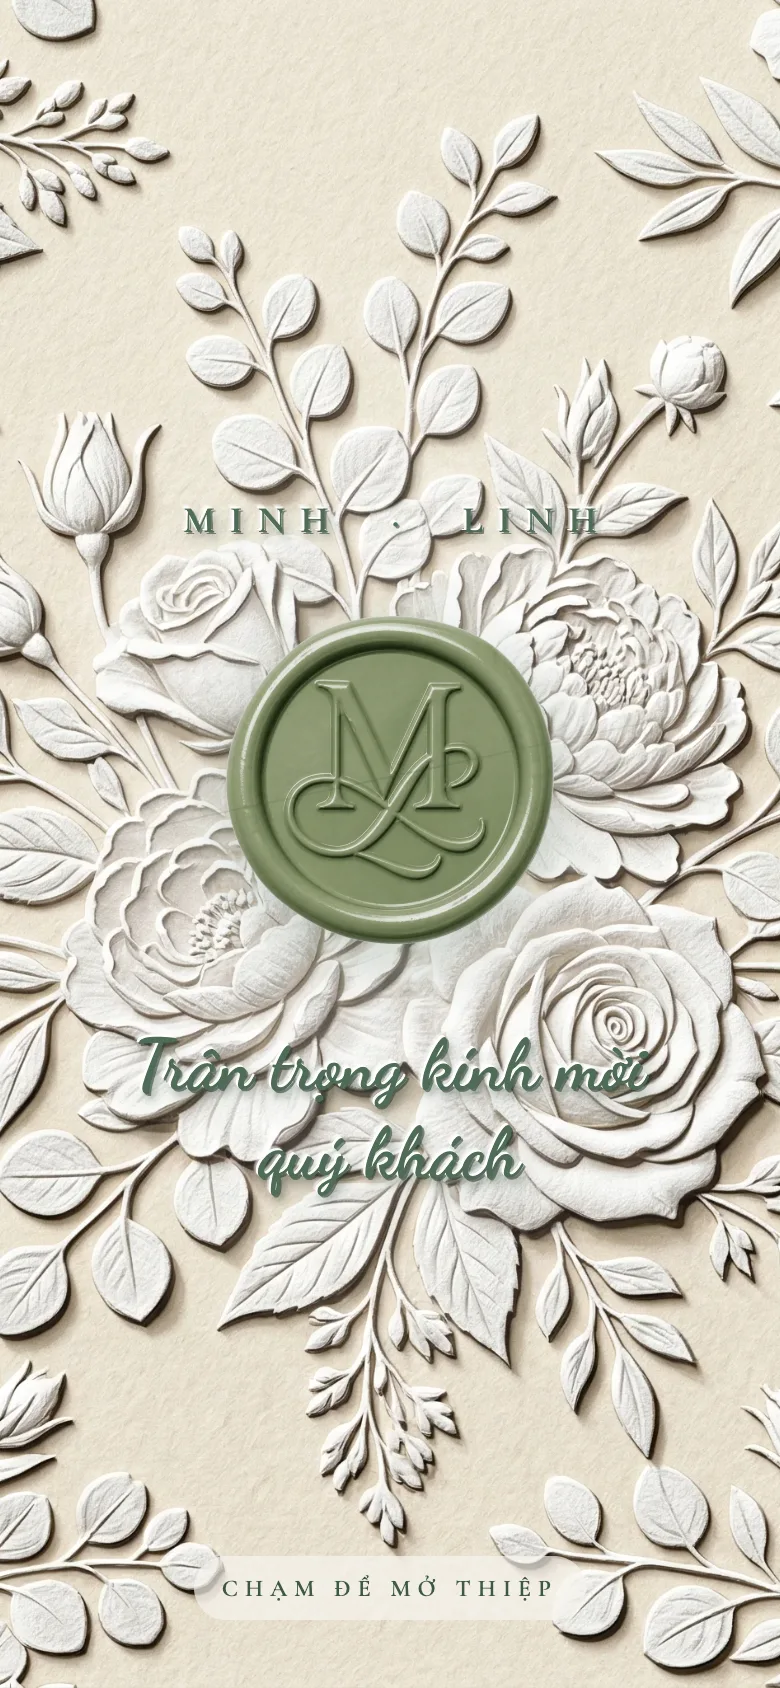
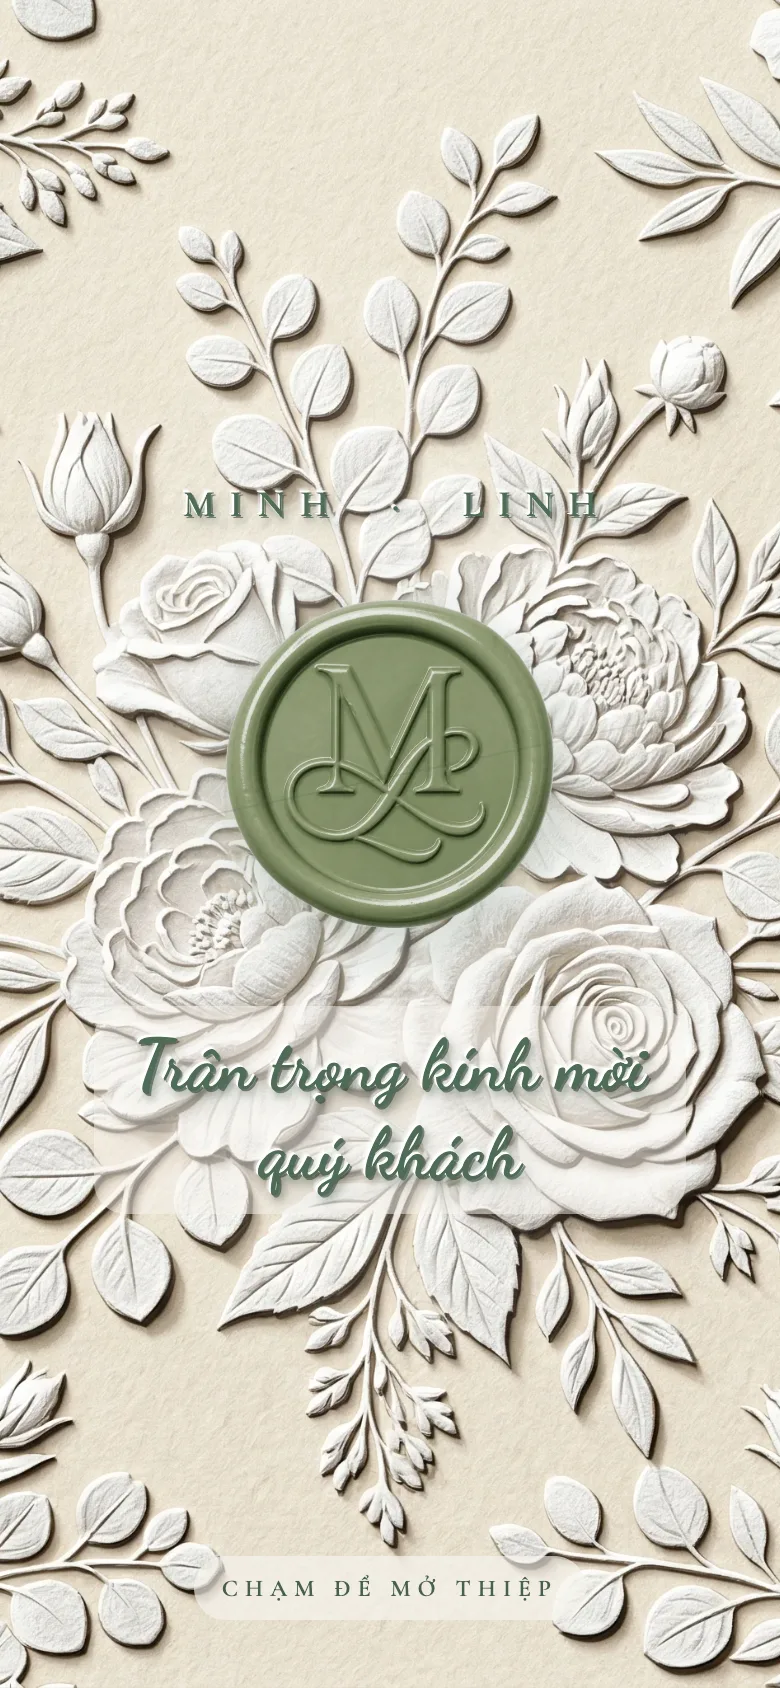
gen_262: thêm nền kem mờ 50% sau chữ mời dập nổi

diff --git a/products/Invitation/Wedding/gen_262_emboss-paper-sage/index.html b/products/Invitation/Wedding/gen_262_emboss-paper-sage/index.html
@@ -123,6 +123,7 @@ a { color: inherit; text-decoration: none; }
 .envelope-invite {
   font-family: var(--font-script); font-weight: 700; font-size: clamp(2.2rem, 8.2vw, 2.9rem);
   margin-top: 2.4rem; line-height: 1.25; text-align: center;
+  padding: 8px 20px; border-radius: 16px; background: rgba(247,244,238,0.5);
   opacity: 0; animation: fadeUp 1.2s var(--ease-out) 0.9s forwards, embossLight 7s ease-in-out 2s infinite alternate;
 }
 .envelope-hint {
